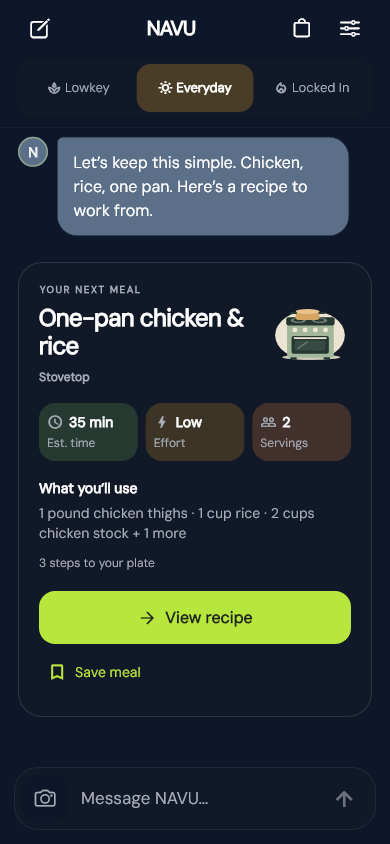
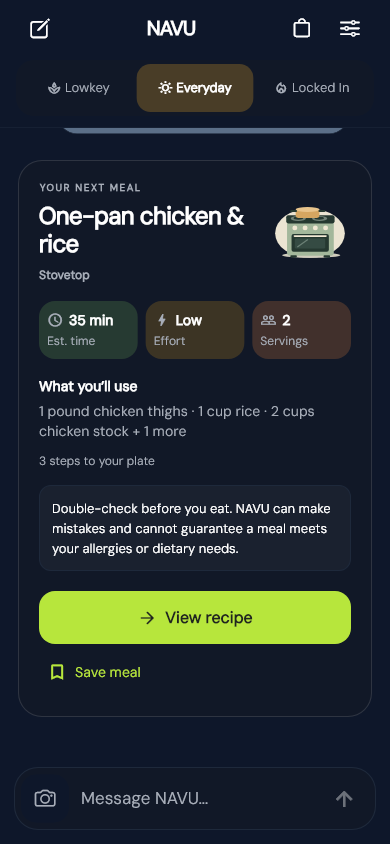
Clarify allergy checks and dietary limits across the meal showcase

Changed region(s): [[0.0308, 0.154, 0.9231, 0.6777]]

diff --git a/index.html b/index.html
@@ -164,7 +164,7 @@
           <figcaption data-tour-caption>Updated Flutter UI · Example data · Dark appearance</figcaption>
         </figure>
       </div>
-      <p class="section-note">App previews use example data from the development build. They show the interface, not a live conversation or a public iPhone release.</p>
+      <p class="section-note">Meal suggestions require your ingredient and allergy checks. <a href="#food-safety">Read about allergies and dietary needs.</a> App previews use example data from the development build. They show the interface, not a live conversation or a public iPhone release.</p>
     </section>
 
     <section class="practical-section" aria-labelledby="practical-heading">
@@ -177,6 +177,16 @@
         </div>
         <p class="section-note">Saved meals stay on the device where you save them. Clearing app or browser storage removes them.</p>
       </div>
+    </section>
+
+    <section class="container food-safety-section" id="food-safety" aria-labelledby="food-safety-heading">
+      <p class="eyebrow">Allergies & dietary needs</p>
+      <h2 id="food-safety-heading">Helpful suggestions.<br><em>Always double-check.</em></h2>
+      <p><strong>NAVU can make mistakes and cannot guarantee that a meal meets your allergies or dietary needs.</strong></p>
+      <p>Check every ingredient, product label, substitution, and possible allergen cross-contact before preparing or eating food. NAVU cannot verify how food is made or handled, and a recipe or dietary label does not certify that food is safe for you.</p>
+      <p>Add your allergies and ingredients to avoid in the app, and keep them up to date. These guide recipe suggestions; they do not replace your own checks. Review saved recipes again when your needs or ingredients change.</p>
+      <p>Dietary preferences are not medical advice. Follow your clinician’s guidance for food allergies and medically required diets. If you are unsure whether a food is safe for you, do not eat it until you have verified it.</p>
+      <a class="text-link" href="https://www.fda.gov/food/nutrition-food-labeling-and-critical-foods/food-allergies">Read FDA food-allergy guidance <span aria-hidden="true">↗</span></a>
     </section>
 
     <section class="section container faq-layout" id="free" aria-labelledby="faq-heading">
@@ -198,7 +208,7 @@
   </main>
 
   <footer class="site-footer container">
-    <div class="footer-top"><a class="wordmark" href="index.html" aria-label="NAVU home">NAVU<span aria-hidden="true">↗</span></a><p>Meet the day you’re having.</p><nav aria-label="Footer navigation"><a href="mailto:joseph.devteam@gmail.com?subject=NAVU%20question">Contact</a><a href="privacy.html">Privacy</a><a href="#safety">Safety</a></nav></div>
+    <div class="footer-top"><a class="wordmark" href="index.html" aria-label="NAVU home">NAVU<span aria-hidden="true">↗</span></a><p>Meet the day you’re having.</p><nav aria-label="Footer navigation"><a href="mailto:joseph.devteam@gmail.com?subject=NAVU%20question">Contact</a><a href="privacy.html">Privacy</a><a href="#food-safety">Food safety</a><a href="#safety">Safety</a></nav></div>
     <div class="footer-bottom"><p>© 2026 NAVU</p><p>Chat-first. Energy-aware. Food first.</p><a href="#main">Back to top <span aria-hidden="true">↑</span></a></div>
   </footer>
 </body>

diff --git a/website.css b/website.css
@@ -176,3 +176,5 @@ summary::-webkit-details-marker{display:none}
 @media(max-width:800px){.mode-explorer{grid-template-columns:minmax(0,1fr)}.mode-explorer-copy{min-width:0}.mode-options button{min-width:0;flex:1 1 0}}
 @media(max-width:360px){.mode-options button{font-size:11px;padding-inline:5px}}
 @media(max-width:800px){.product-tour{grid-template-columns:minmax(0,1fr)}.tour-content,.tour-visual{min-width:0}.tour-phone{max-width:100%}}
+
+.food-safety-section{margin-top:72px;padding:40px;border:1px solid var(--line);border-radius:24px;background:var(--surface)}.food-safety-section h2{margin:14px 0 24px}.food-safety-section>p:not(.eyebrow){max-width:820px;margin:16px 0;color:var(--muted)}.food-safety-section strong{color:var(--ink)}@media(max-width:600px){.food-safety-section{padding:24px}.food-safety-section h2{font-size:34px}.footer-top nav{flex-wrap:wrap;gap:12px 24px}}

diff --git a/README.md b/README.md
@@ -31,3 +31,7 @@ Saved meals stay on the device where they were saved. Screenshots do not imply a
 - Mode buttons switch the matching screenshots and description; tour buttons switch the image, text, full-image link, and pressed state.
 - Flutter capture run: 19 passed. Related all-meal/snack Flutter tests: 35 passed.
 - No production deployment or merge performed. Release-status and contact copy preserved from the current live site.
+
+## Allergy and diet limitations
+Visible homepage guidance and a nearby showcase link require ingredient, label, substitution, and cross-contact checks. Suggestions are not guaranteed suitable; dietary preferences are not medical advice. Current meal/recipe captures include the app notice (navu-mvp 96fdaa6). No legal-immunity claim or consent waiver. App validation: 266 tests, 123 diet guard checks, 19 captures passed; analyzer has 75 informational findings, no errors or warnings.
+
